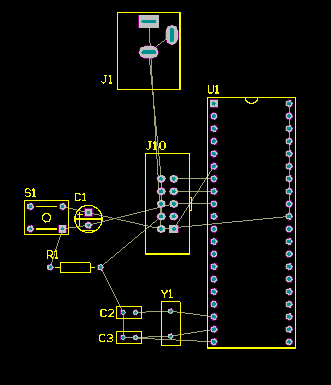
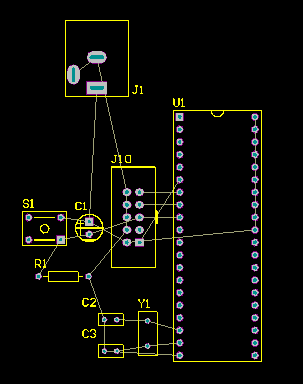
modify pcb_tutorial dc socket direction error.modify gifffer button style.

Changed region(s): [[0.0594, 0.0312, 0.9208, 0.9375], [0.3564, 0.2812, 0.3861, 0.375]]

diff --git a/tutorial/js/gifffer.min.js b/tutorial/js/gifffer.min.js
@@ -1,1 +1,1 @@
-(function webpackUniversalModuleDefinition(root,factory){if(typeof exports==="object"&&typeof module==="object")module.exports=factory();else if(typeof define==="function"&&define.amd)define("Gifffer",[],factory);else if(typeof exports==="object")exports["Gifffer"]=factory();else root["Gifffer"]=factory()})(this,function(){var d=document;var playSize=60;var Gifffer=function(options){var images,i=0,gifs=[];images=d.querySelectorAll("[data-gifffer]");for(;i<images.length;++i)process(images[i],gifs,options);return gifs};function formatUnit(v){return v+(v.toString().indexOf("%")>0?"":"px")}function parseStyles(styles){var stylesStr="";for(prop in styles)stylesStr+=prop+":"+styles[prop]+";";return stylesStr}function createContainer(w,h,el,altText,opts){var alt;var con=d.createElement("BUTTON");var cls=el.getAttribute("class");var id=el.getAttribute("id");var playButtonStyles=opts&&opts.playButtonStyles?parseStyles(opts.playButtonStyles):["width:"+playSize+"px","height:"+playSize+"px","border-radius:"+playSize/2+"px","background:rgba(0, 0, 0, 0.3)","position:absolute","top:50%","left:50%","margin:-"+playSize/2+"px"].join(";");var playButtonIconStyles=opts&&opts.playButtonIconStyles?parseStyles(opts.playButtonIconStyles):["width: 0","height: 0","border-top: 14px solid transparent","border-bottom: 14px solid transparent","border-left: 14px solid rgba(0, 0, 0, 0.5)","position: absolute","left: 26px","top: 16px"].join(";");cls?con.setAttribute("class",el.getAttribute("class")):null;id?con.setAttribute("id",el.getAttribute("id")):null;con.setAttribute("style","position:relative;cursor:pointer;background:none;border:none;padding:0;");con.setAttribute("aria-hidden","true");var play=d.createElement("DIV");play.setAttribute("class","gifffer-play-button");play.setAttribute("style",playButtonStyles);var trngl=d.createElement("DIV");trngl.setAttribute("style",playButtonIconStyles);play.appendChild(trngl);if(altText){alt=d.createElement("p");alt.setAttribute("class","gifffer-alt");alt.setAttribute("style","border:0;clip:rect(0 0 0 0);height:1px;overflow:hidden;padding:0;position:absolute;width:1px;");alt.innerText=altText+", image"}con.appendChild(play);el.parentNode.replaceChild(con,el);altText?con.parentNode.insertBefore(alt,con.nextSibling):null;return{c:con,p:play}}function calculatePercentageDim(el,w,h,wOrig,hOrig){var parentDimW=el.parentNode.offsetWidth;var parentDimH=el.parentNode.offsetHeight;var ratio=wOrig/hOrig;if(w.toString().indexOf("%")>0){w=parseInt(w.toString().replace("%",""));w=w/100*parentDimW;h=w/ratio}else if(h.toString().indexOf("%")>0){h=parseInt(h.toString().replace("%",""));h=h/100*parentDimW;w=h/ratio}return{w:w,h:h}}function process(el,gifs,options){var url,con,c,w,h,duration,play,gif,playing=false,cc,isC,durationTimeout,dims,altText;url=el.getAttribute("data-gifffer");w=el.getAttribute("data-gifffer-width");h=el.getAttribute("data-gifffer-height");duration=el.getAttribute("data-gifffer-duration");altText=el.getAttribute("data-gifffer-alt");el.style.display="block";c=document.createElement("canvas");isC=!!(c.getContext&&c.getContext("2d"));if(w&&h&&isC)cc=createContainer(w,h,el,altText,options);el.onload=function(){if(!isC)return;w=w||el.width;h=h||el.height;if(!cc)cc=createContainer(w,h,el,altText,options);con=cc.c;play=cc.p;dims=calculatePercentageDim(con,w,h,el.width,el.height);gifs.push(con);con.addEventListener("click",function(){clearTimeout(durationTimeout);if(!playing){playing=true;gif=document.createElement("IMG");gif.setAttribute("style","width:100%;height:100%;");gif.setAttribute("data-uri",Math.floor(Math.random()*1e5)+1);setTimeout(function(){gif.src=url},0);con.removeChild(play);con.removeChild(c);con.appendChild(gif);if(parseInt(duration)>0){durationTimeout=setTimeout(function(){playing=false;con.appendChild(play);con.removeChild(gif);con.appendChild(c);gif=null},duration)}}else{playing=false;con.appendChild(play);con.removeChild(gif);con.appendChild(c);gif=null}});c.width=dims.w;c.height=dims.h;c.getContext("2d").drawImage(el,0,0,dims.w,dims.h);con.appendChild(c);con.setAttribute("style","position:relative;cursor:pointer;width:"+dims.w+"px;height:"+dims.h+"px;background:none;border:none;padding:0;");c.style.width="100%";c.style.height="100%";if(w.toString().indexOf("%")>0&&h.toString().indexOf("%")>0){con.style.width=w;con.style.height=h}else if(w.toString().indexOf("%")>0){con.style.width=w;con.style.height="inherit"}else if(h.toString().indexOf("%")>0){con.style.width="inherit";con.style.height=h}else{con.style.width=dims.w+"px";con.style.height=dims.h+"px"}};el.src=url}return Gifffer});
+(function webpackUniversalModuleDefinition(root,factory){if(typeof exports==="object"&&typeof module==="object")module.exports=factory();else if(typeof define==="function"&&define.amd)define("Gifffer",[],factory);else if(typeof exports==="object")exports["Gifffer"]=factory();else root["Gifffer"]=factory()})(this,function(){var d=document;var playSize=60;var Gifffer=function(options){var images,i=0,gifs=[];images=d.querySelectorAll("[data-gifffer]");for(;i<images.length;++i)process(images[i],gifs,options);return gifs};function formatUnit(v){return v+(v.toString().indexOf("%")>0?"":"px")}function parseStyles(styles){var stylesStr="";for(prop in styles)stylesStr+=prop+":"+styles[prop]+";";return stylesStr}function createContainer(w,h,el,altText,opts){var alt;var con=d.createElement("BUTTON");var cls=el.getAttribute("class");var id=el.getAttribute("id");var playButtonStyles=opts&&opts.playButtonStyles?parseStyles(opts.playButtonStyles):["width:"+playSize+"px","height:"+playSize+"px","border-radius:"+playSize/2+"px","background:rgba(255, 128, 128, 0.3)","position:absolute","top:50%","left:50%","margin:-"+playSize/2+"px"].join(";");var playButtonIconStyles=opts&&opts.playButtonIconStyles?parseStyles(opts.playButtonIconStyles):["width: 0","height: 0","border-top: 14px solid transparent","border-bottom: 14px solid transparent","border-left: 14px solid rgba(0, 0, 0, 0.5)","position: absolute","left: 26px","top: 16px"].join(";");cls?con.setAttribute("class",el.getAttribute("class")):null;id?con.setAttribute("id",el.getAttribute("id")):null;con.setAttribute("style","position:relative;cursor:pointer;background:none;border:none;padding:0;");con.setAttribute("aria-hidden","true");var play=d.createElement("DIV");play.setAttribute("class","gifffer-play-button");play.setAttribute("style",playButtonStyles);var trngl=d.createElement("DIV");trngl.setAttribute("style",playButtonIconStyles);play.appendChild(trngl);if(altText){alt=d.createElement("p");alt.setAttribute("class","gifffer-alt");alt.setAttribute("style","border:0;clip:rect(0 0 0 0);height:1px;overflow:hidden;padding:0;position:absolute;width:1px;");alt.innerText=altText+", image"}con.appendChild(play);el.parentNode.replaceChild(con,el);altText?con.parentNode.insertBefore(alt,con.nextSibling):null;return{c:con,p:play}}function calculatePercentageDim(el,w,h,wOrig,hOrig){var parentDimW=el.parentNode.offsetWidth;var parentDimH=el.parentNode.offsetHeight;var ratio=wOrig/hOrig;if(w.toString().indexOf("%")>0){w=parseInt(w.toString().replace("%",""));w=w/100*parentDimW;h=w/ratio}else if(h.toString().indexOf("%")>0){h=parseInt(h.toString().replace("%",""));h=h/100*parentDimW;w=h/ratio}return{w:w,h:h}}function process(el,gifs,options){var url,con,c,w,h,duration,play,gif,playing=false,cc,isC,durationTimeout,dims,altText;url=el.getAttribute("data-gifffer");w=el.getAttribute("data-gifffer-width");h=el.getAttribute("data-gifffer-height");duration=el.getAttribute("data-gifffer-duration");altText=el.getAttribute("data-gifffer-alt");el.style.display="block";c=document.createElement("canvas");isC=!!(c.getContext&&c.getContext("2d"));if(w&&h&&isC)cc=createContainer(w,h,el,altText,options);el.onload=function(){if(!isC)return;w=w||el.width;h=h||el.height;if(!cc)cc=createContainer(w,h,el,altText,options);con=cc.c;play=cc.p;dims=calculatePercentageDim(con,w,h,el.width,el.height);gifs.push(con);con.addEventListener("click",function(){clearTimeout(durationTimeout);if(!playing){playing=true;gif=document.createElement("IMG");gif.setAttribute("style","width:100%;height:100%;");gif.setAttribute("data-uri",Math.floor(Math.random()*1e5)+1);setTimeout(function(){gif.src=url},0);con.removeChild(play);con.removeChild(c);con.appendChild(gif);if(parseInt(duration)>0){durationTimeout=setTimeout(function(){playing=false;con.appendChild(play);con.removeChild(gif);con.appendChild(c);gif=null},duration)}}else{playing=false;con.appendChild(play);con.removeChild(gif);con.appendChild(c);gif=null}});c.width=dims.w;c.height=dims.h;c.getContext("2d").drawImage(el,0,0,dims.w,dims.h);con.appendChild(c);con.setAttribute("style","position:relative;cursor:pointer;width:"+dims.w+"px;height:"+dims.h+"px;background:none;border:none;padding:0;");c.style.width="100%";c.style.height="100%";if(w.toString().indexOf("%")>0&&h.toString().indexOf("%")>0){con.style.width=w;con.style.height=h}else if(w.toString().indexOf("%")>0){con.style.width=w;con.style.height="inherit"}else if(h.toString().indexOf("%")>0){con.style.width="inherit";con.style.height=h}else{con.style.width=dims.w+"px";con.style.height=dims.h+"px"}};el.src=url}return Gifffer});

diff --git a/tutorial/pcb_tutorial.html b/tutorial/pcb_tutorial.html
@@ -55,6 +55,10 @@
 <img src="res/pic/pcb_tutorial_pic4.png" alt="dip"/><br>
 <li><a href="https://pan.baidu.com/s/1nv9FPpR" target="_blank">其他常用元器件的PCB封装</a>。</li>
 <li>PCB设计中的常用尺寸单位：mil(密耳)，为英制单位，1mil=1/1000inch=0.0254mm。如管脚间距为100mil，即为2.54mm。</li>
+    <div align="center">
+    <input type="number" id="mil_textbox" placeholder="100" min="0" oninput="$('#mm_textbox').val(mil2mm($('#mil_textbox').val()))">mil=
+    <input type="number" id="mm_textbox" placeholder="2.54" min="0" step="0.0001" oninput="$('#mil_textbox').val(mm2mil($('#mm_textbox').val()))">mm
+    </div>
 </ul></li>
 </ol></p>
 <hr>
@@ -101,12 +105,18 @@
 <ol>
 <li>在Keep-Out Layer层，绘制一个闭合的区域边框。</li>
 <div  class="alert alert-info">区域大小应尽量控制在100mm*100mm以内。</div>
-<li>按住Shift键，选中该区域边框，在菜单"设计--板子形状--按照选择对象定义"。</li>
-</ol>
 <img data-gifffer="res/pic/pcb_tutorial_pic12.gif" data-gifffer-alt="setting"/><br>
+<li>按住Shift键，选中该区域边框，在菜单"设计--板子形状--按照选择对象定义"。</li>
+<img src="res/pic/pcb_tutorial_pic22.png"/><br><br>
+<img src="res/pic/pcb_tutorial_pic23.png"/><br>
+</ol>
 <li><b>布线</b>可以使用手工布线或自动布线。</li>
 <ul>
 <li>手工布线:使用Interactively Route Connections<img src="res/pic/pcb_tutorial_pic12.png"/>在<img src="res/pic/pcb_tutorial_pic13.png"/>和<img src="res/pic/pcb_tutorial_pic14.png"/>层绘制导线。</li>
+<div class="alert alert-danger">
+注意：绘图工具“走线(L)”，只是几何线段(Line)，不是真正的电线路(Wire)，没有电气特性。
+</div>
+<img src="res/pic/pcb_tutorial_pic24.png"/><br>
 <li>自动布线:使用菜单"自动布线--全部(A)...--编辑规则--Routing--Width"，设置线宽，按"确定--Route All"按钮自动布线。</li>
 <div class="alert alert-info">
 推荐线宽：<br>信号线：10mil，电源线：30mil。
@@ -114,7 +124,12 @@
 <div class="alert alert-danger">
 警告：必须先完成板子形状的设计，才能进行自动布线，否则Altium Designer软件会崩溃。
 </div>
-<img data-gifffer="res/pic/pcb_tutorial_pic13.gif" data-gifffer-alt="route"/><br>
+<img src="res/pic/pcb_tutorial_pic25.png"/><br><br>
+<img src="res/pic/pcb_tutorial_pic26.png"/><br><br>
+<img src="res/pic/pcb_tutorial_pic27.png"/><br><br>
+<img src="res/pic/pcb_tutorial_pic28.png"/><br><br>
+<img src="res/pic/pcb_tutorial_pic29.png"/><br><br>
+<img src="res/pic/pcb_tutorial_pic30.png"/><br><br>
 </ul>
 <li><b>定位孔。</b>在PCB四个角处，放置定位孔，定位孔直径推荐3.2mm。可以选用焊盘或Keep-Out Layer层剪切2种方式。</li>
 <ul>
@@ -148,7 +163,8 @@
 </body>
   <script src="https://cdn.bootcss.com/jquery/1.12.4/jquery.min.js"></script>
   <script src="https://cdn.bootcss.com/bootstrap/3.3.7/js/bootstrap.min.js"></script>
-  <script src="https://cdn.bootcss.com/gifffer/1.5.0/gifffer.min.js"></script>
+  <script src="js/gifffer.min.js"></script>
+  <script src="../tool/js/mil_mm.js"></script>
   <script>
 $(document).ready(function(){
 	Gifffer();

diff --git a/tutorial/keil_use_tutorial.html b/tutorial/keil_use_tutorial.html
@@ -110,7 +110,7 @@
 </body>
   <script src="https://cdn.bootcss.com/jquery/1.12.4/jquery.min.js"></script>
   <script src="https://cdn.bootcss.com/bootstrap/3.3.7/js/bootstrap.min.js"></script>
-  <script src="https://cdn.bootcss.com/gifffer/1.5.0/gifffer.min.js"></script>
+  <script src="js/gifffer.min.js"></script>
   <script>
 $(document).ready(function(){
 	Gifffer();

diff --git a/tutorial/ad_mini51_schematic_tutorial.html b/tutorial/ad_mini51_schematic_tutorial.html
@@ -89,7 +89,7 @@
 </body>
   <script src="https://cdn.bootcss.com/jquery/1.12.4/jquery.min.js"></script>
   <script src="https://cdn.bootcss.com/bootstrap/3.3.7/js/bootstrap.min.js"></script>
-  <script src="https://cdn.bootcss.com/gifffer/1.5.0/gifffer.min.js"></script>
+  <script src="js/gifffer.min.js"></script>
   <script>
 $(document).ready(function(){
 	Gifffer();

diff --git a/tutorial/altium_designer_install_tutorial.html b/tutorial/altium_designer_install_tutorial.html
@@ -82,7 +82,7 @@
 </body>
   <script src="https://cdn.bootcss.com/jquery/1.12.4/jquery.min.js"></script>
   <script src="https://cdn.bootcss.com/bootstrap/3.3.7/js/bootstrap.min.js"></script>
-  <script src="https://cdn.bootcss.com/gifffer/1.5.0/gifffer.min.js"></script>
+  <script src="js/gifffer.min.js"></script>
   <script>
 $(document).ready(function(){
 	Gifffer();

diff --git a/tutorial/keil_install_tutorial.html b/tutorial/keil_install_tutorial.html
@@ -64,7 +64,7 @@
 </body>
   <script src="https://cdn.bootcss.com/jquery/1.12.4/jquery.min.js"></script>
   <script src="https://cdn.bootcss.com/bootstrap/3.3.7/js/bootstrap.min.js"></script>
-  <script src="https://cdn.bootcss.com/gifffer/1.5.0/gifffer.min.js"></script>
+  <script src="js/gifffer.min.js"></script>
   <script>
 $(document).ready(function(){
 	Gifffer();
